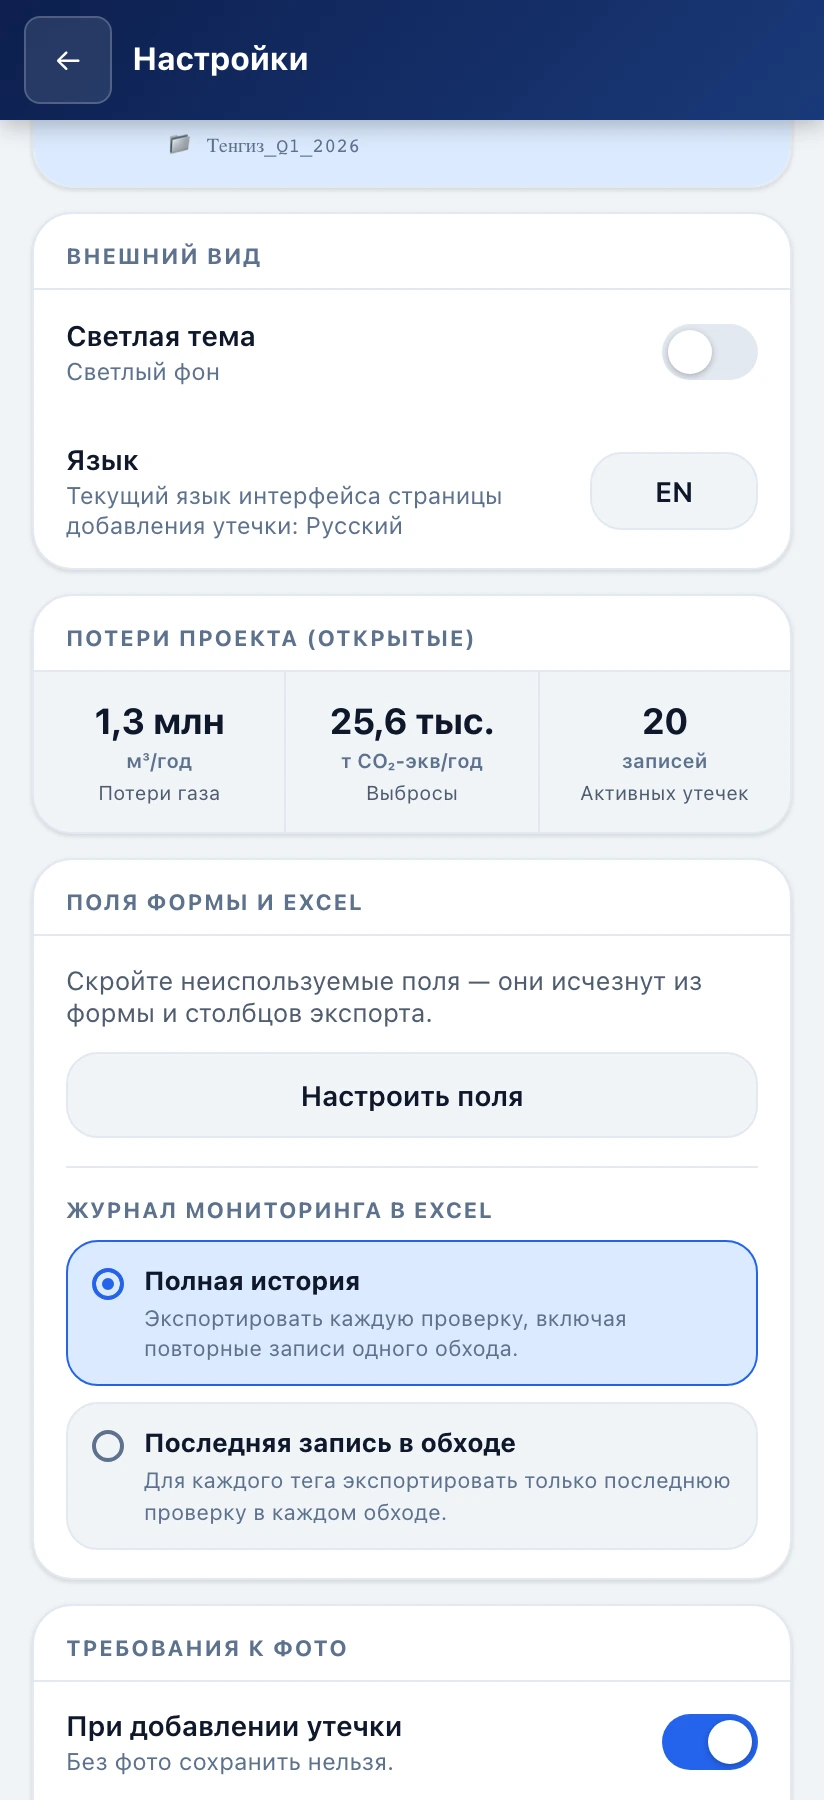
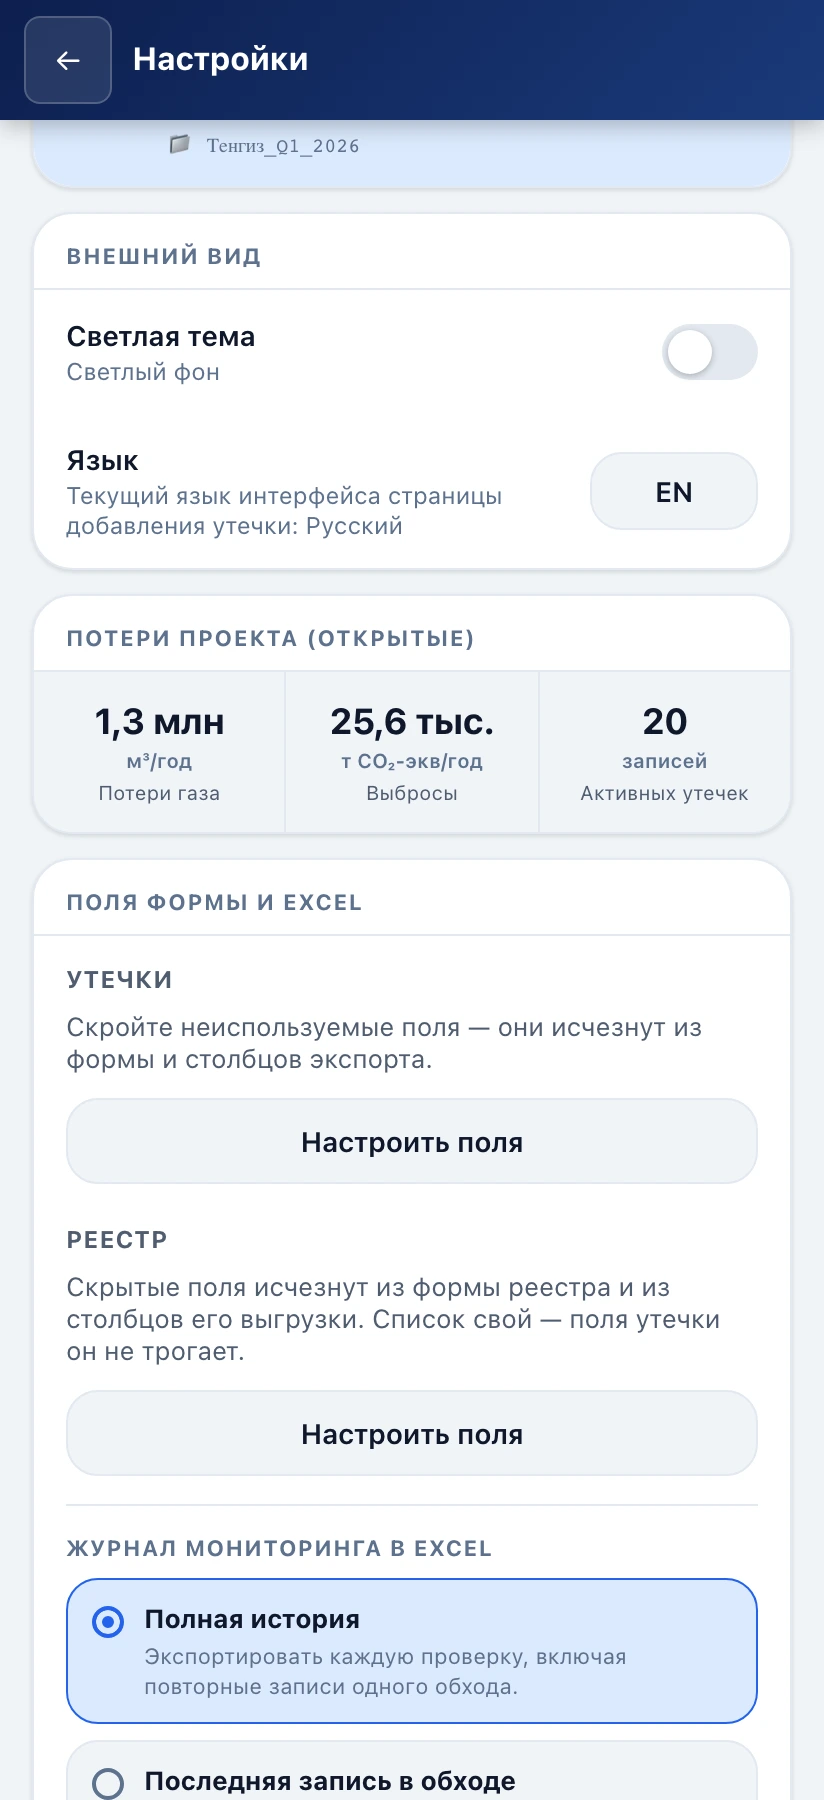
docs(manual): переснять снимки настроек и карты железа
Экраны разъехались с руководством: в настройках поля стали двумя частями,
на карте с железом появился отбор по состоянию. Пересняты семь снимков —
кроме двух изменившихся ещё пять соседних по странице настроек, которые
сдвинулись вслед за перекроенным блоком.

Остальные двадцать два снимка съёмка тоже переписала, но различие в них —
единицы пикселей из полутора миллионов, то есть дрожь кодировщика, а не
изменение экрана. Они возвращены как были: два мегабайта в историю за
неотличимую картинку платить незачем.

Заодно поправлено описание блока полей: на телефоне колонки складываются
одна под другую, и снимок это показал — «в две колонки» было верно только
для широкого экрана.

diff --git a/docs/manual/android/manual.html b/docs/manual/android/manual.html
@@ -952,8 +952,9 @@
       </p>
       <h3>Поля формы и Excel</h3>
       <p>
-        Блок в две колонки — <strong>«Утечки»</strong> и
-        <strong>«Реестр»</strong>. Кнопка <strong>«Настроить поля»</strong>
+        Блок разделён надвое — <strong>«Утечки»</strong> и
+        <strong>«Реестр»</strong>; на телефоне одна часть стоит под другой.
+        Кнопка <strong>«Настроить поля»</strong>
         скрывает неиспользуемые поля своей формы: они исчезают и из формы, и из
         столбцов выгрузки. Наборы раздельные — одноимённое поле можно оставить у
         утечки и убрать у карточки компонента.

diff --git a/docs/MANUAL.md b/docs/MANUAL.md
@@ -520,7 +520,8 @@ GPS и ждёт первого фикса до 15 секунд. Дождалис
 
 <img src="manual/img/42-settings-fields.webp" width="360" alt="Настройки: поля формы и Excel">
 
-Блок в две колонки: **«Утечки»** и **«Реестр»**. Каждая кнопка **«Настроить
+Блок разделён надвое: **«Утечки»** и **«Реестр»**. На широком экране это две
+колонки, на телефоне — одна часть под другой. Каждая кнопка **«Настроить
 поля»** скрывает неиспользуемые поля своей формы — они исчезают и из формы, и из
 столбцов экспорта в Excel. Наборы раздельные: одноимённое поле можно оставить у
 утечки и убрать у карточки компонента.
